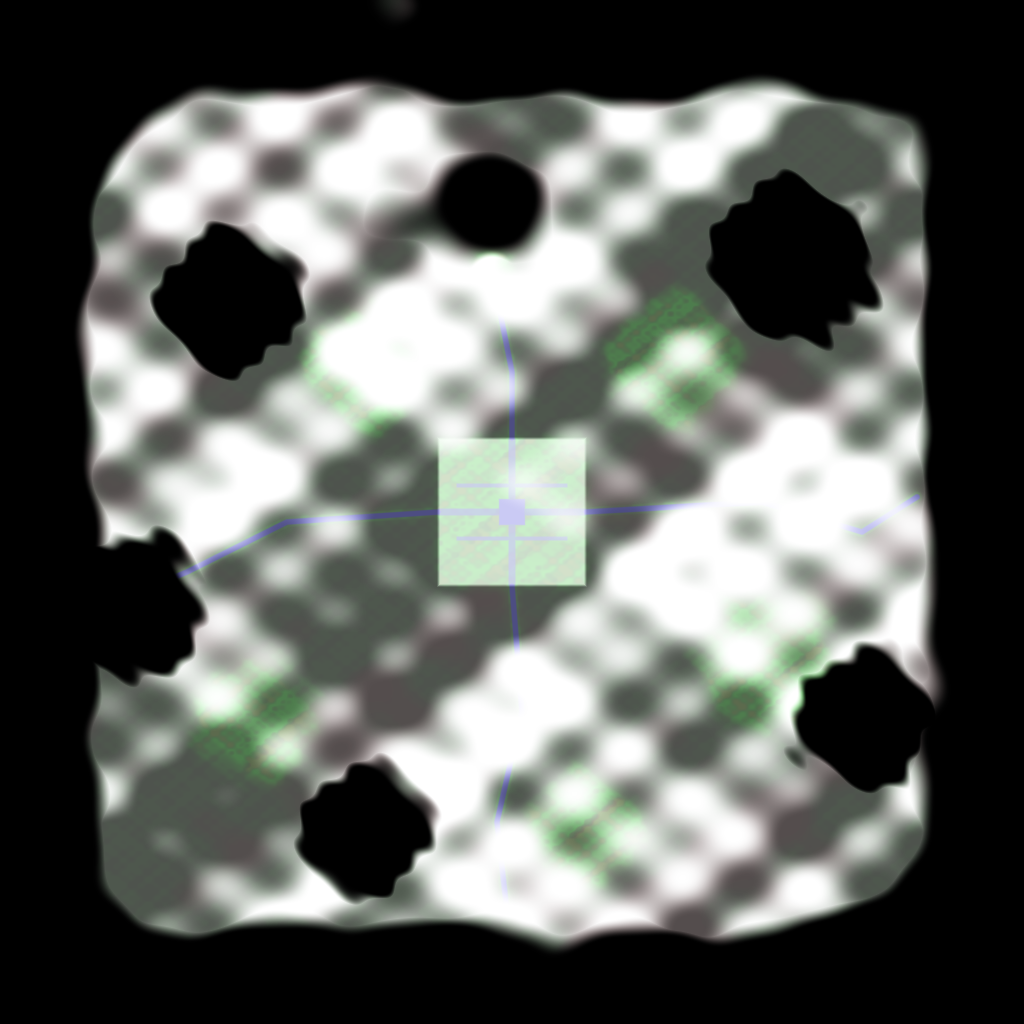
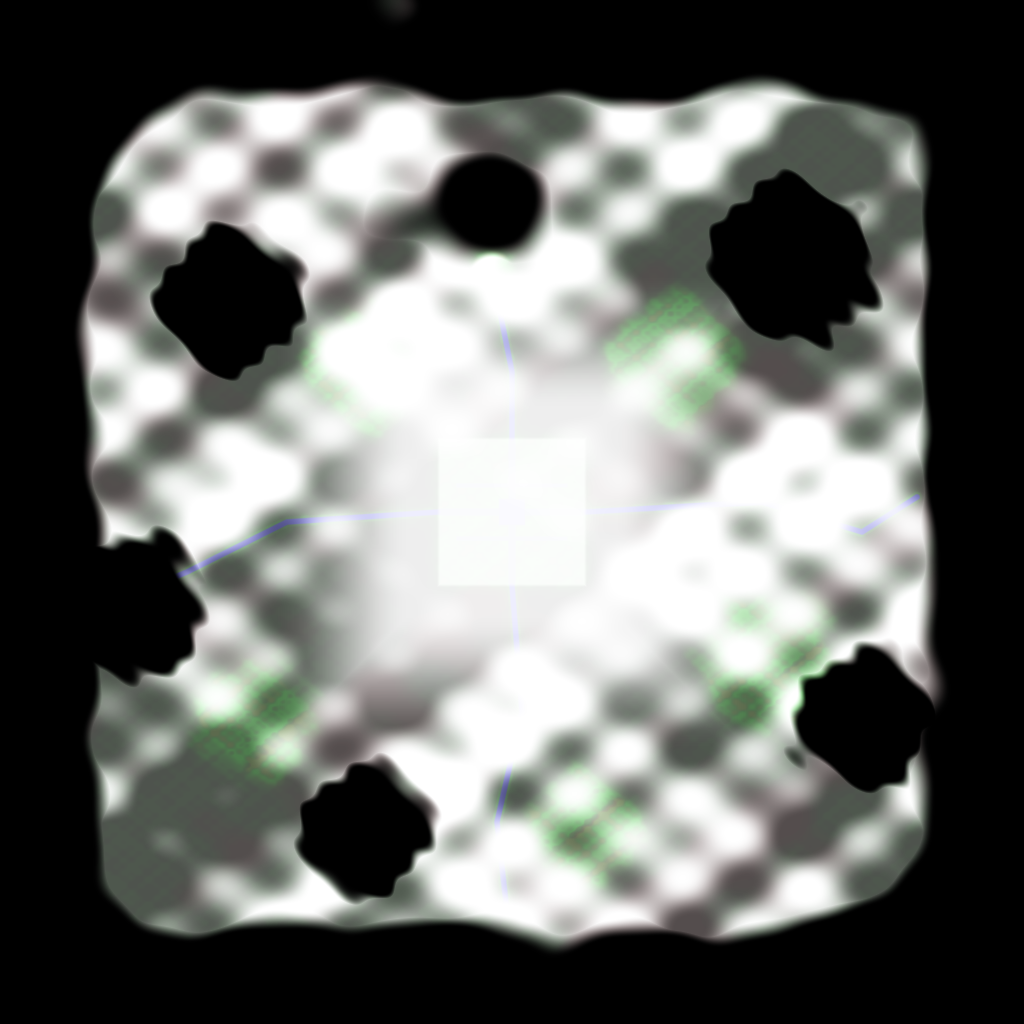
ground and bark polish: the village forest floor leans to brown leaf litter, Demirkaya keeps lush grass around the village, and tree bark tiles by distance instead of stretching along each branch

Changed region(s): [[0.2812, 0.2812, 0.7188, 0.7188], [0.3125, 0.2812, 0.3438, 0.3125]]

diff --git a/tools/mapgen/demirkaya_village.py b/tools/mapgen/demirkaya_village.py
@@ -163,10 +163,11 @@ def make_splat(h, objs):
     patch = smoothstep(-0.1, 0.4, smooth_noise(x, z, 2211))
     spoil = np.maximum(smoothstep(60.0, 20.0, np.hypot(x - MINE[0], z - MINE[1])),
                        smoothstep(80.0, 30.0, np.hypot(x - QUARRY[0], z - QUARRY[1])))
+    lush = smoothstep(VILLAGE_HALF + 330.0, VILLAGE_HALF + 60.0, np.maximum(np.abs(x), np.abs(z)))
     dry = 0.02 + 0.12 * patch + 0.15 * wooded
-    dirt = 0.4 * shoulder + 0.7 * inside + 0.9 * spoil + 1.0 * wooded + 0.2 * (1.0 - patch)
+    dirt = 0.4 * shoulder + 0.7 * inside + 0.9 * spoil + 1.0 * wooded + 0.2 * (1.0 - patch) * (1.0 - 0.85 * lush)
     rock = np.maximum(np.maximum(smoothstep(18.0, -18.0, blob_distance(x, z, ROCKY)), smoothstep(26.0, 42.0, hh)),
-                      0.7 * smoothstep(-0.3, 0.3, smooth_noise(x, z, 2212)) * (1.0 - 0.7 * inside))
+                      0.7 * smoothstep(-0.3, 0.3, smooth_noise(x, z, 2212)) * (1.0 - 0.7 * inside) * (1.0 - 0.9 * lush))
     return build_splat(x, z, hh, dry, dirt, road, rock)
 
 

diff --git a/tools/mapgen/altunay_village.py b/tools/mapgen/altunay_village.py
@@ -258,12 +258,12 @@ def make_splat(h, objs):
     for x0, z0, x1, z1 in FIELDS:
         fields = np.maximum(fields, smoothstep(4.0, -2.0, rect_distance(x, z, x0, z0, x1, z1)))
     patch = smoothstep(0.1, 0.5, smooth_noise(x, z, 2201))
-    dry = 0.08 + 0.4 * patch + 0.9 * fields + 0.3 * wooded
-    dirt = (0.5 * shoulder + 0.65 * inside + 0.85 * buildings + 1.0 * wooded
+    dry = 0.08 + 0.4 * patch + 0.9 * fields + 0.08 * wooded
+    dirt = (0.5 * shoulder + 0.65 * inside + 0.85 * buildings + 1.15 * wooded
             + 0.75 * shore_weight(x, z, hh, [("line", RIVER), ("circles", LAKE)]) + 0.5 * fields)
     dirt = dirt * (1.0 - 0.6 * fields)
     rock = np.maximum(smoothstep(18.0, -18.0, blob_distance(x, z, ROCKY)), smoothstep(36.0, 50.0, hh))
-    return build_splat(x, z, hh, dry, dirt, road, rock)
+    return build_splat(x, z, hh, dry, dirt, road, rock, litter_dry=0.12)
 
 
 def main():

diff --git a/tools/mapgen/mapkit.py b/tools/mapgen/mapkit.py
@@ -512,7 +512,7 @@ def patch_noise(x, z, seed):
     return out / 4.5
 
 
-def build_splat(x, z, h, dry, dirt, road, rock):
+def build_splat(x, z, h, dry, dirt, road, rock, litter_dry=0.55):
     dry = np.clip(dry, 0.0, 1.0)
     dirt = np.clip(dirt, 0.0, 1.0)
     road = np.clip(road, 0.0, 1.0)
@@ -523,7 +523,7 @@ def build_splat(x, z, h, dry, dirt, road, rock):
     moss = patch_noise(x, z, 4102)
     deep = smoothstep(0.55, 0.95, floor)
     dirt = dirt * (0.62 + 0.38 * smoothstep(-0.3, 0.3, litter)) * (1.0 - 0.45 * smoothstep(0.1, 0.5, moss) * deep)
-    dry = dry + 0.55 * deep * smoothstep(0.0, 0.5, -litter) * (1.0 - 0.5 * smoothstep(0.1, 0.5, moss))
+    dry = dry + litter_dry * deep * smoothstep(0.0, 0.5, -litter) * (1.0 - 0.5 * smoothstep(0.1, 0.5, moss))
     rest = 1.0 - rock
     road = road * rest
     rest = rest - road

diff --git a/tools/art/tree_gen.py b/tools/art/tree_gen.py
@@ -335,6 +335,7 @@ def trunk_mesh(pBuilder, pTriLimit=None):
         tBase = len(tVerts)
         tDist = 0.0
         tVs = []
+        tTile = max(math.tau * tRadii[0], 0.4)
         for tI, tP in enumerate(tPoints):
             if tI:
                 tDist += (tP - tPoints[tI - 1]).length
@@ -352,7 +353,7 @@ def trunk_mesh(pBuilder, pTriLimit=None):
                 tB1 = tBase + (tI + 1) * tSides + tN
                 tFaces.append((tA0, tA1, tB1, tB0))
                 tU0, tU1 = 0.005 + 0.49 * tS / tSides, 0.005 + 0.49 * (tS + 1) / tSides
-                tV0, tV1 = tVs[tI] / max(tDist, 1e-6), tVs[tI + 1] / max(tDist, 1e-6)
+                tV0, tV1 = tVs[tI] / tTile, tVs[tI + 1] / tTile
                 tUvs.append(((tU0, tV0), (tU1, tV0), (tU1, tV1), (tU0, tV1)))
     return tVerts, tFaces, tUvs
 
